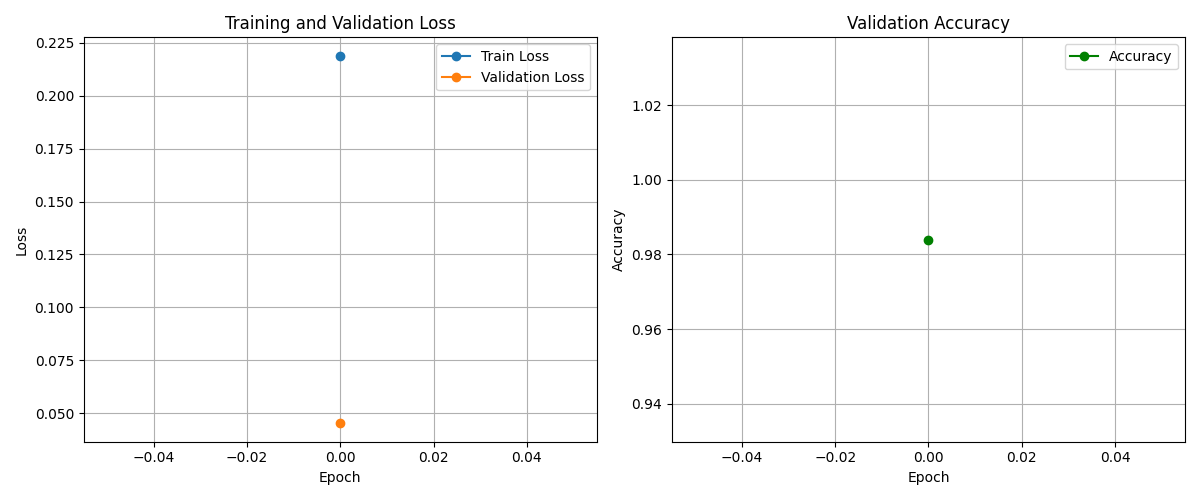
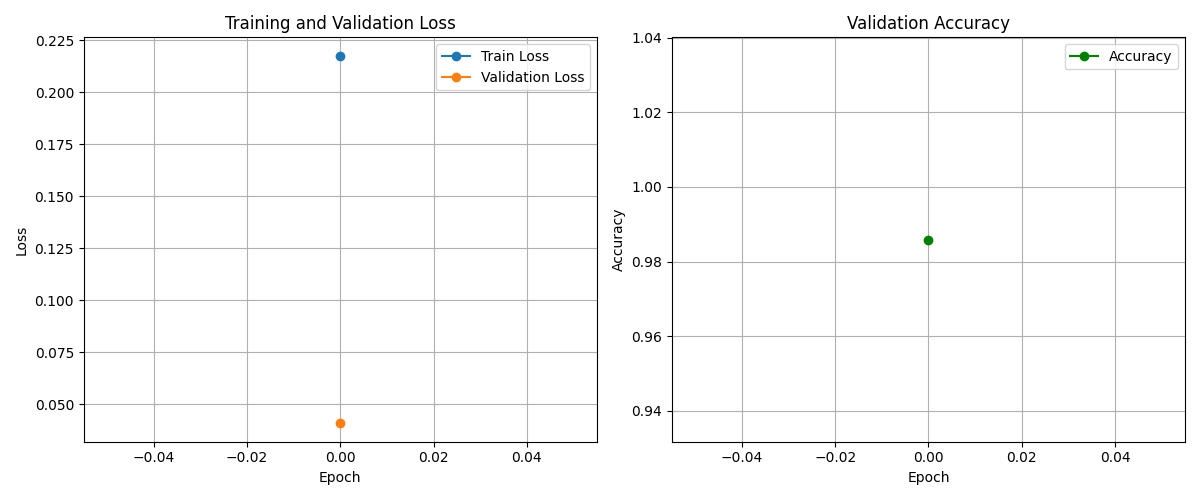
satge 3 change - Testing/ training performance & plot update for report

diff --git a/script/stage_3_script/script_CNN.py b/script/stage_3_script/script_CNN.py
@@ -13,17 +13,27 @@ def get_data_path(dataset_name):
     data_path = PROJECT_ROOT / 'data' / 'stage_3_data' / dataset_name
     return str(data_path)
 
-def save_results(dataset_name, metrics, epoch_count):
+#save both training and testing
+def save_results(dataset_name, test_metrics, epoch_count, train_metrics):
     result_path = RESULT_DIR / f'results_{dataset_name}.txt'
     with open(result_path, 'w') as f:
-        f.write(f"Testing Performance for {dataset_name}:\n")
+        f.write(f"Training performance for {dataset_name} (final epoch on training data):\n")
         f.write(f"Epochs Run: {epoch_count}\n")
-        f.write(f"Loss: {metrics['loss']:.4f}\n")
-        f.write(f"Accuracy: {metrics['accuracy']:.4f}\n")
-        f.write(f"Precision: {metrics['precision']:.4f}\n")
-        f.write(f"Recall: {metrics['recall']:.4f}\n")
-        f.write(f"F1 Score: {metrics['f1']:.4f}\n")
+        f.write(f"Train Loss: {train_metrics['loss']:.4f}\n")
+        f.write(f"Accuracy: {train_metrics['accuracy']:.4f}\n")
+        f.write(f"Precision: {train_metrics['precision']:.4f}\n")
+        f.write(f"Recall: {train_metrics['recall']:.4f}\n")
+        f.write(f"F1 Score: {train_metrics['f1']:.4f}\n\n")
+
+        f.write(f"Testing Performance for {dataset_name} (Final evaluation on full test set):\n")
+        f.write(f"Loss: {test_metrics['loss']:.4f}\n")
+        f.write(f"Accuracy: {test_metrics['accuracy']:.4f}\n")
+        f.write(f"Precision: {test_metrics['precision']:.4f}\n")
+        f.write(f"Recall: {test_metrics['recall']:.4f}\n")
+        f.write(f"F1 Score: {test_metrics['f1']:.4f}\n")
+
     print(f"[Saved results to {result_path}]")
+
 
 def train_and_evaluate(dataset_name, data_path):
     # Load data
@@ -34,26 +44,28 @@ def train_and_evaluate(dataset_name, data_path):
     model = Method_CNN(f"CNN_{dataset_name}", f"CNN for {dataset_name}", dataset_name)
 
     # Prepare data loaders
-    train_loader = prepare_data(data['train'], dataset_name, model.batch_size)
+    train_loader = prepare_data(data['train'], dataset_name, model.batch_size) #
     test_loader = prepare_data(data['test'], dataset_name, model.batch_size)
 
     # Train model
     #best_accuracy = model.train_model(train_loader, test_loader)
-    best_accuracy, epoch_count = model.train_model(train_loader, test_loader) #want to count epoch
+    #count epoch & store final metrics
+    best_accuracy, epoch_count, train_metrics = model.train_model(train_loader, test_loader)
 
     # Final evaluation
     metrics = model.evaluate(test_loader)
 
-    print(f"\nTesting Performance for {dataset_name}:")
+    print(f"\nTraining Performance for {dataset_name} (Final epoch on training data):")
     print(f"Epochs Run: {epoch_count}")
-    print(f"Loss: {metrics['loss']:.4f}")
-    print(f"Accuracy: {metrics['accuracy']:.4f}")
-    print(f"Precision: {metrics['precision']:.4f}")
-    print(f"Recall: {metrics['recall']:.4f}")
-    print(f"F1 Score: {metrics['f1']:.4f}")
+    print(f"Train Loss: {train_metrics['loss']:.4f}")
+    print(f"Accuracy: {train_metrics['accuracy']:.4f}")
+    print(f"Precision: {train_metrics['precision']:.4f}")
+    print(f"Recall: {train_metrics['recall']:.4f}")
+    print(f"F1 Score: {train_metrics['f1']:.4f}")
+    print(f"\nTesting Performance for {dataset_name}:")
 
     # Save results
-    save_results(dataset_name, metrics, epoch_count)
+    save_results(dataset_name, metrics, epoch_count, train_metrics)
 
     return metrics
 

diff --git a/code/stage_3_code/Method_CNN.py b/code/stage_3_code/Method_CNN.py
@@ -133,8 +133,19 @@ class Method_CNN(nn.Module):
 
         self.load_state_dict(best_model)
         self.plot_history(train_loss_history, val_loss_history, accuracy_history)
+
+        #store the final training metrics
+        last_train_metrics = {
+            'loss': train_loss_history[-1],
+            'accuracy': accuracy_history[-1],
+            'precision': metrics['precision'],
+            'recall': metrics['recall'],
+            'f1': metrics['f1']
+        }
+
         #return best_accuracy
-        return best_accuracy, epoch + 1
+        return best_accuracy, epoch + 1, last_train_metrics
+
 
     def evaluate(self, data_loader):
         self.eval()
